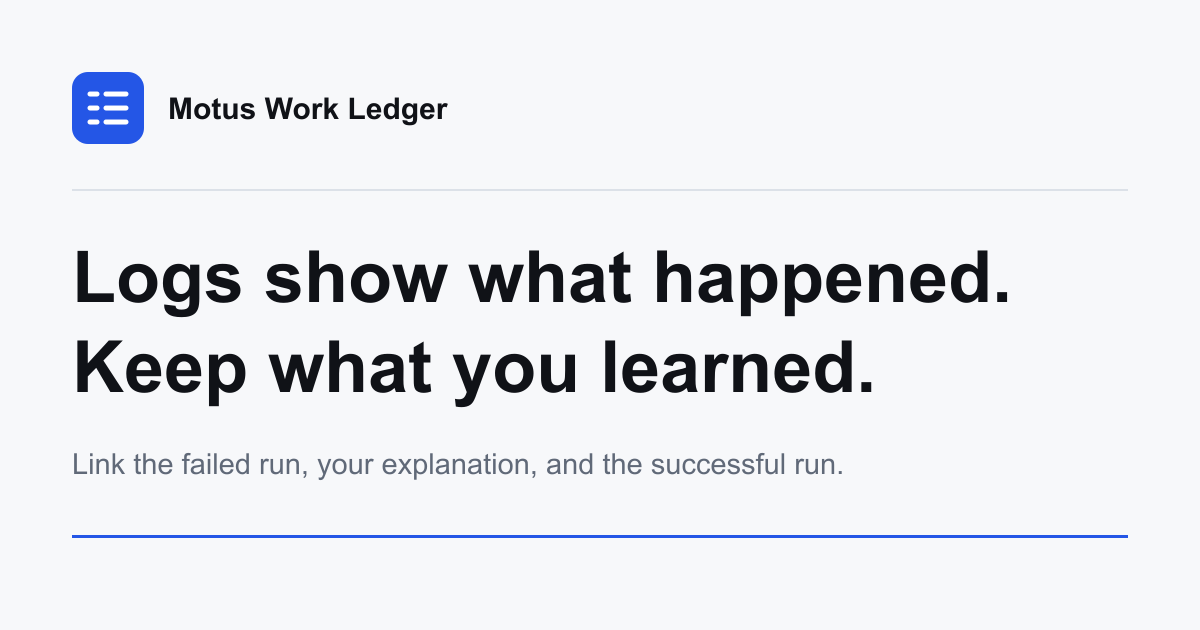
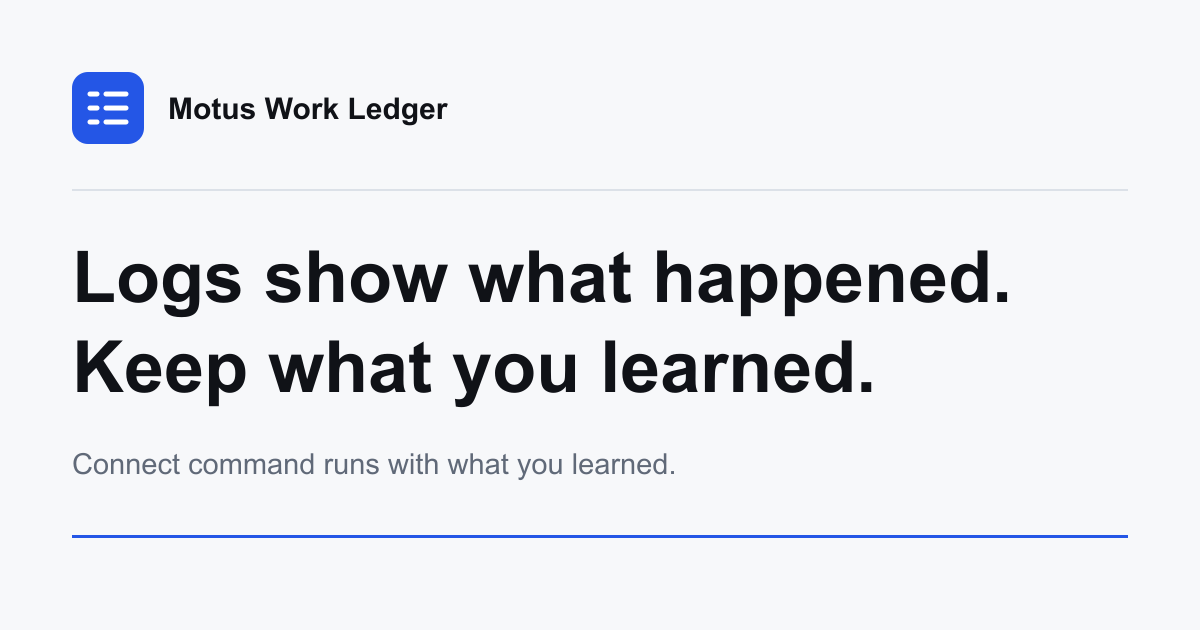
Broaden the Motus homepage definition (#13)
Lead with a recorded run plus the explanation or next step the user chooses to keep. Retain failure recovery as the detailed example and align the social preview and copy checks.

Changed region(s): [[0.0617, 0.7238, 0.7092, 0.754]]

diff --git a/site/index.html b/site/index.html
@@ -3,8 +3,8 @@
 <head>
   <meta charset="utf-8">
   <meta name="viewport" content="width=device-width, initial-scale=1">
-  <title>Motus Work Ledger | Keep what you learn from a failed command</title>
-  <meta name="description" content="Motus records selected facts about a failed command, the likely cause and next step you add, and the successful run after the fix.">
+  <title>Motus Work Ledger | Connect command runs with what you learned</title>
+  <meta name="description" content="Motus records selected facts about a command run and connects them to the explanation or next step you choose to save.">
   <link rel="canonical" href="https://www.motussupra.com/">
   <meta property="og:type" content="website">
   <meta property="og:title" content="Motus Work Ledger">
@@ -42,33 +42,29 @@
     <section class="hero shell" aria-labelledby="hero-title">
       <div class="hero-copy">
         <h1 id="hero-title">Logs show what happened. Keep what you learned.</h1>
-        <p class="hero-lede">Motus records selected facts about the failed command. You add the likely cause and next step, then link the successful run after the fix. Search it when the problem returns.</p>
+        <p class="hero-lede">Motus records selected facts about a command run. Add an explanation or next step worth keeping. Search the note and inspect its run later.</p>
         <div class="hero-actions">
           <a class="button" href="#install">Install Motus</a>
           <a class="text-link" href="#how-it-works">See the workflow</a>
         </div>
       </div>
 
-      <div class="terminal" aria-label="A failed run, saved explanation, successful resolution, and later retrieval">
+      <div class="terminal" aria-label="A recorded run, saved explanation, and later retrieval">
         <div class="terminal-bar" aria-hidden="true">
           <span></span><span></span><span></span>
           <strong>motus</strong>
         </div>
-        <pre tabindex="0"><code><span class="quiet">01  FAILED RUN</span>
-npm test
-run_0370...  failure
-
-<span class="quiet">02  YOUR FINDING</span>
-Likely cause: generation skipped
-Next: regenerate, then test
-
-<span class="quiet">03  SUCCESSFUL RUN</span>
+        <pre tabindex="0"><code><span class="quiet">01  RECORDED RUN</span>
 npm test
 run_c588...  <span class="success">success</span>
 
-<span class="quiet">04  SEARCH LATER</span>
-finding list --query stale
-finding_1457...  resolved</code></pre>
+<span class="quiet">02  WHAT YOU KEPT</span>
+Summary: generation must run first
+Next: keep this order in CI
+
+<span class="quiet">03  SEARCH LATER</span>
+finding list --query generation
+finding_1457...  open</code></pre>
         <div class="terminal-foot">
           <span>local</span>
           <span>run-linked</span>
@@ -80,7 +76,7 @@ finding_1457...  resolved</code></pre>
     <section class="section shell" id="how-it-works" aria-labelledby="flow-title">
       <div class="section-intro">
         <h2 id="flow-title">How Motus works.</h2>
-        <p>A run is one command execution. A finding is what you choose to save about a failure: what happened, the likely cause, or what to try next.</p>
+        <p>Each run contains selected facts about one command execution. A finding is the explanation or next step you choose to keep with it. The example below follows a failure through a successful check.</p>
         <p>A person, coding agent, script, or CI job calls the CLI from the workflow it already runs. By default, Motus writes recorded runs and findings to <code>.motus/ledger.db</code>. Anyone using that same ledger can search the records later.</p>
       </div>
 
@@ -99,14 +95,14 @@ finding_1457...  resolved</code></pre>
         </li>
         <li>
           <span class="flow-number">03</span>
-          <strong>Link the fix</strong>
-          <p>After the fix works, link the finding to that successful run.</p>
+          <strong>Close when settled</strong>
+          <p>Resolve it with a successful run that addresses it, or dismiss it with a note.</p>
           <code>motus finding close</code>
         </li>
         <li>
           <span class="flow-number">04</span>
           <strong>Find later</strong>
-          <p>Search the finding and inspect both runs when the problem returns.</p>
+          <p>Search the finding and inspect its run details.</p>
           <code>motus finding list --query</code>
         </li>
       </ol>
@@ -146,8 +142,8 @@ Closure note: Refreshed the generated file
 
     <section class="section shell" id="install" aria-labelledby="install-title">
       <div class="section-intro">
-        <h2 id="install-title">Try the full workflow.</h2>
-        <p>This example uses <code>npm test</code>. Replace it with any command you already run. Paths and IDs are shortened.</p>
+        <h2 id="install-title">Try a failure-to-fix example.</h2>
+        <p>This example uses <code>npm test</code> to show the full finding lifecycle. Replace it with any command you already run. Paths and IDs are shortened.</p>
       </div>
 
       <div class="quickstart">
@@ -217,7 +213,7 @@ $ motus finding list --query stale</code></pre>
           <h3>Recorded with a run</h3>
           <ul>
             <li>stable run and event IDs</li>
-            <li>timestamps and duration</li>
+            <li>start and end timestamps</li>
             <li>executable name and argument count</li>
             <li>Git repository, commit, and dirty state</li>
             <li>exit code, signal, timeout, and outcome</li>
@@ -230,7 +226,7 @@ $ motus finding list --query stale</code></pre>
             <li>finding summary and likely cause</li>
             <li>next step, when useful</li>
             <li>resolution or dismissal note</li>
-            <li>links to the failed and successful runs</li>
+            <li>link to the origin run and, when resolved, the successful run</li>
           </ul>
         </div>
       </div>
@@ -243,11 +239,11 @@ $ motus finding list --query stale</code></pre>
       <dl>
         <div>
           <dt>Why not Git, shell history, or CI logs?</dt>
-          <dd>Git shows what changed. Shell history and CI show what ran. Motus keeps your explanation connected to both the failed and successful run, then makes that record searchable.</dd>
+          <dd>Git shows what changed. Shell history and CI show what ran. Motus keeps the explanation or next step you chose to save connected to the run, then lets you find the note and its run later.</dd>
         </div>
         <div>
           <dt>When is a finding worth saving?</dt>
-          <dd>When a failure took real investigation, crossed tools or sessions, or is likely to return. Routine failures do not need a finding.</dd>
+          <dd>When the explanation or next step will matter later. A difficult failure is one example. Routine runs do not need a finding.</dd>
         </div>
         <div>
           <dt>Does Motus store raw command output?</dt>
@@ -260,7 +256,7 @@ $ motus finding list --query stale</code></pre>
       <div class="shell closing-inner">
         <div>
           <h2>Keep the answer for next time.</h2>
-          <p>Record the failed run, what you learned, and the successful check.</p>
+          <p>Record the run, add the explanation, and find them together later.</p>
         </div>
         <a class="button button-light" href="#install">Install Motus</a>
       </div>
